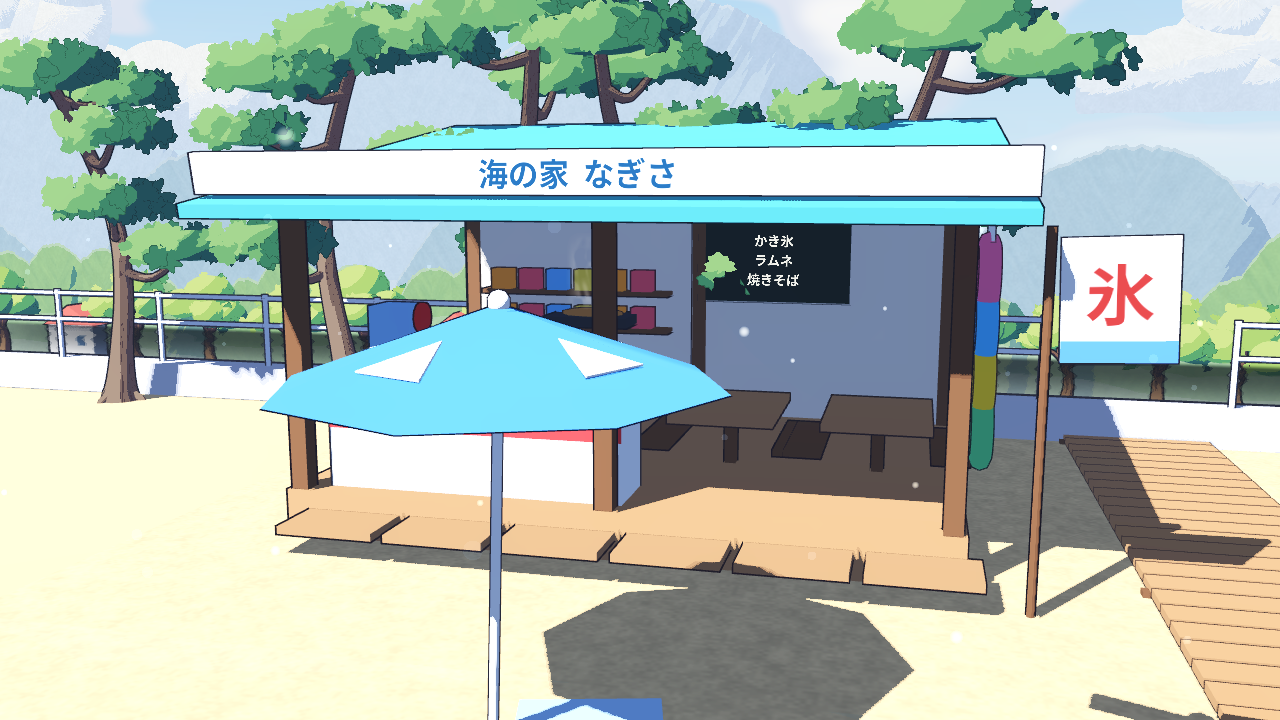
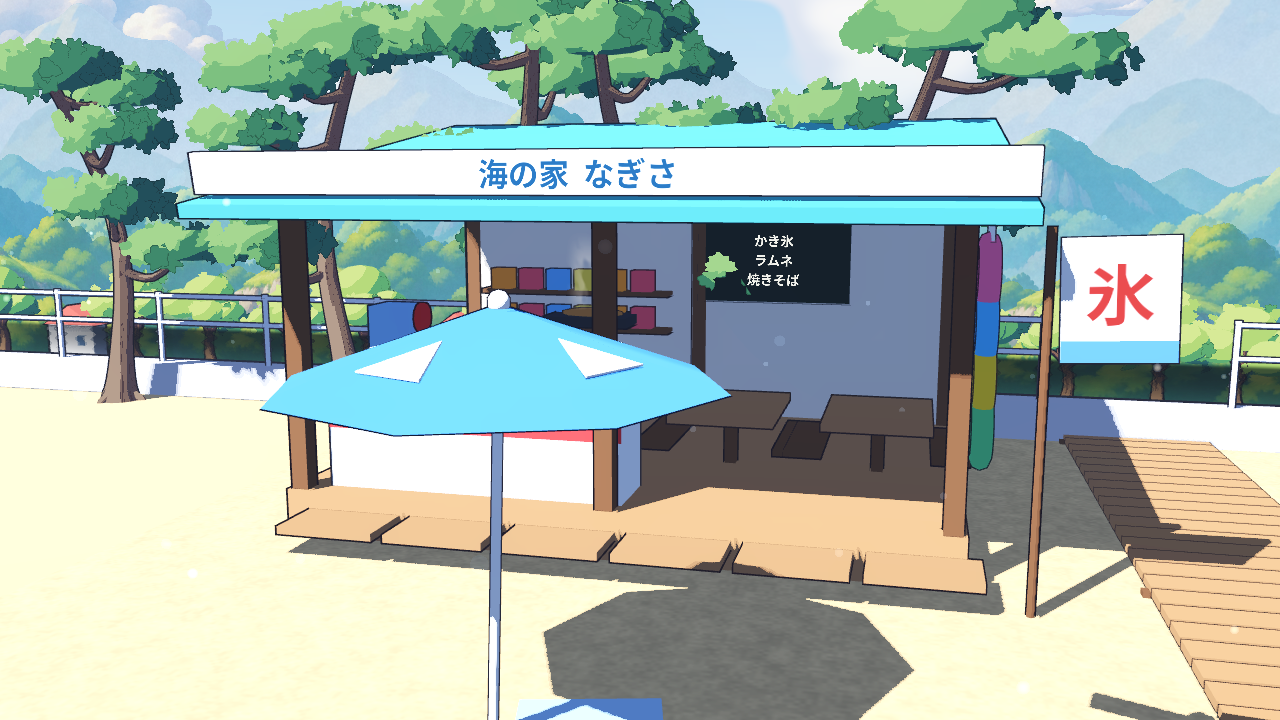
Coast: the painted backdrop from ChatGPT
Five painted layers (far peaks, mountains, wooded hills, two summer
clouds) made with ChatGPT from the brief, trimmed of empty sky and put
in assets/backdrop/ with their import files. The backdrop now takes the
number of repeats of a range and the height of a cloud from the image's
proportions, so nothing is stretched, and the clouds hang higher to
clear the taller painted mountains.

Claude-Session: https://claude.ai/code/session_01JuNQs8VxyuqxoqKQNTs1C5

diff --git a/.claude/skills/godot-diorama-scene/references/atmosphere.md b/.claude/skills/godot-diorama-scene/references/atmosphere.md
@@ -102,3 +102,9 @@ in `konbini_backdrop.gd`) is used instead of the procedural painting, repeated a
 cannot make images; when the user wants painted art, hand off with a brief like
 `docs/konbini-diorama/chatgpt-backdrop-brief.md` (reference renders, a style message, one prompt per layer
 with size, transparency, seamless edges, light direction and palette, and fixes for common misses).
+
+The coast now uses painted images from ChatGPT (`assets/backdrop/`). Notes from bringing them in: the
+images came with a lot of empty sky above the land, so trim the transparent top (keep the full width of a
+range so its edges still join; trim clouds on all sides), and let the code take the number of repeats and
+a cloud's height from the image's proportions instead of fixed numbers. Painted mountains stand taller than
+the shader ones did, so check the clouds still clear them.

diff --git a/assets/backdrop/CREDITS.md b/assets/backdrop/CREDITS.md
@@ -1,0 +1,5 @@
+# Painted backdrop images
+
+Painted with ChatGPT image generation for this project by the repository owner, following
+`docs/konbini-diorama/chatgpt-backdrop-brief.md`, then trimmed of empty sky at the top (the mountain
+layers keep their full width so their left and right edges still join).
